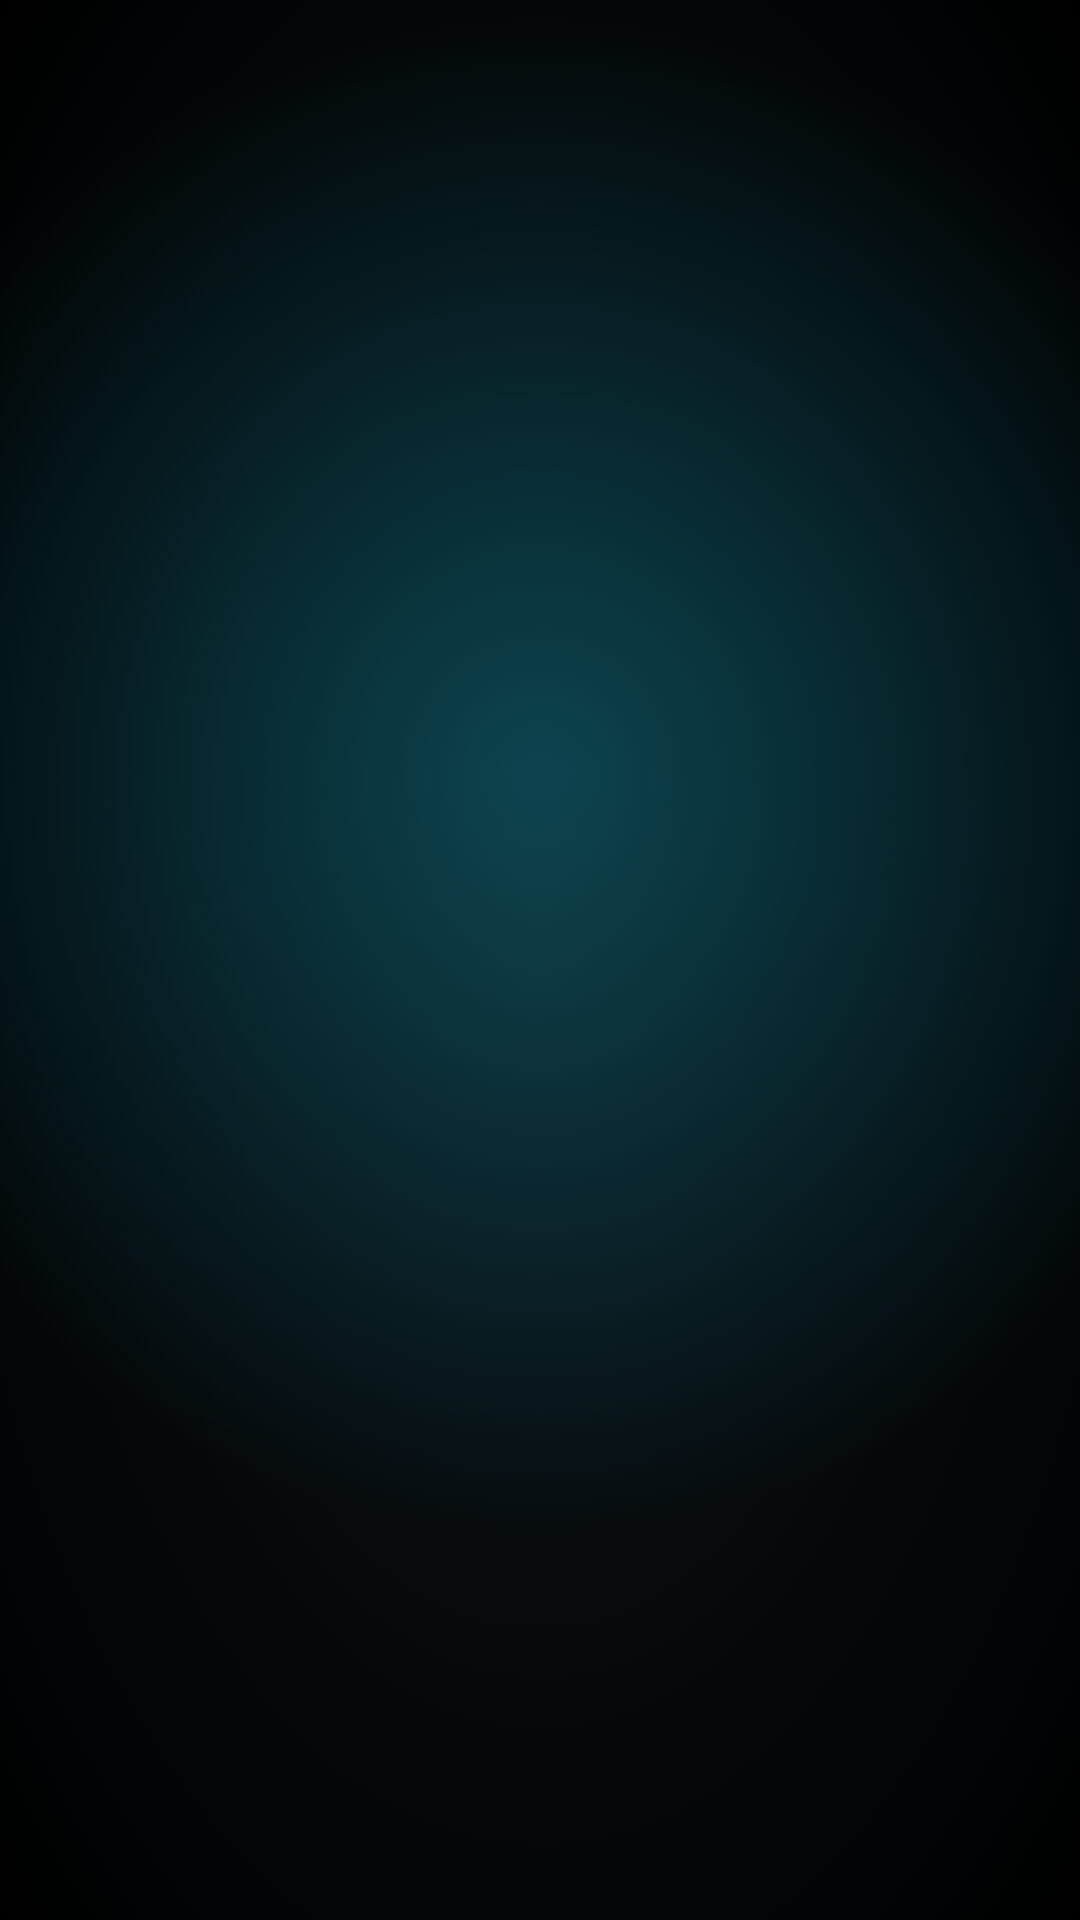
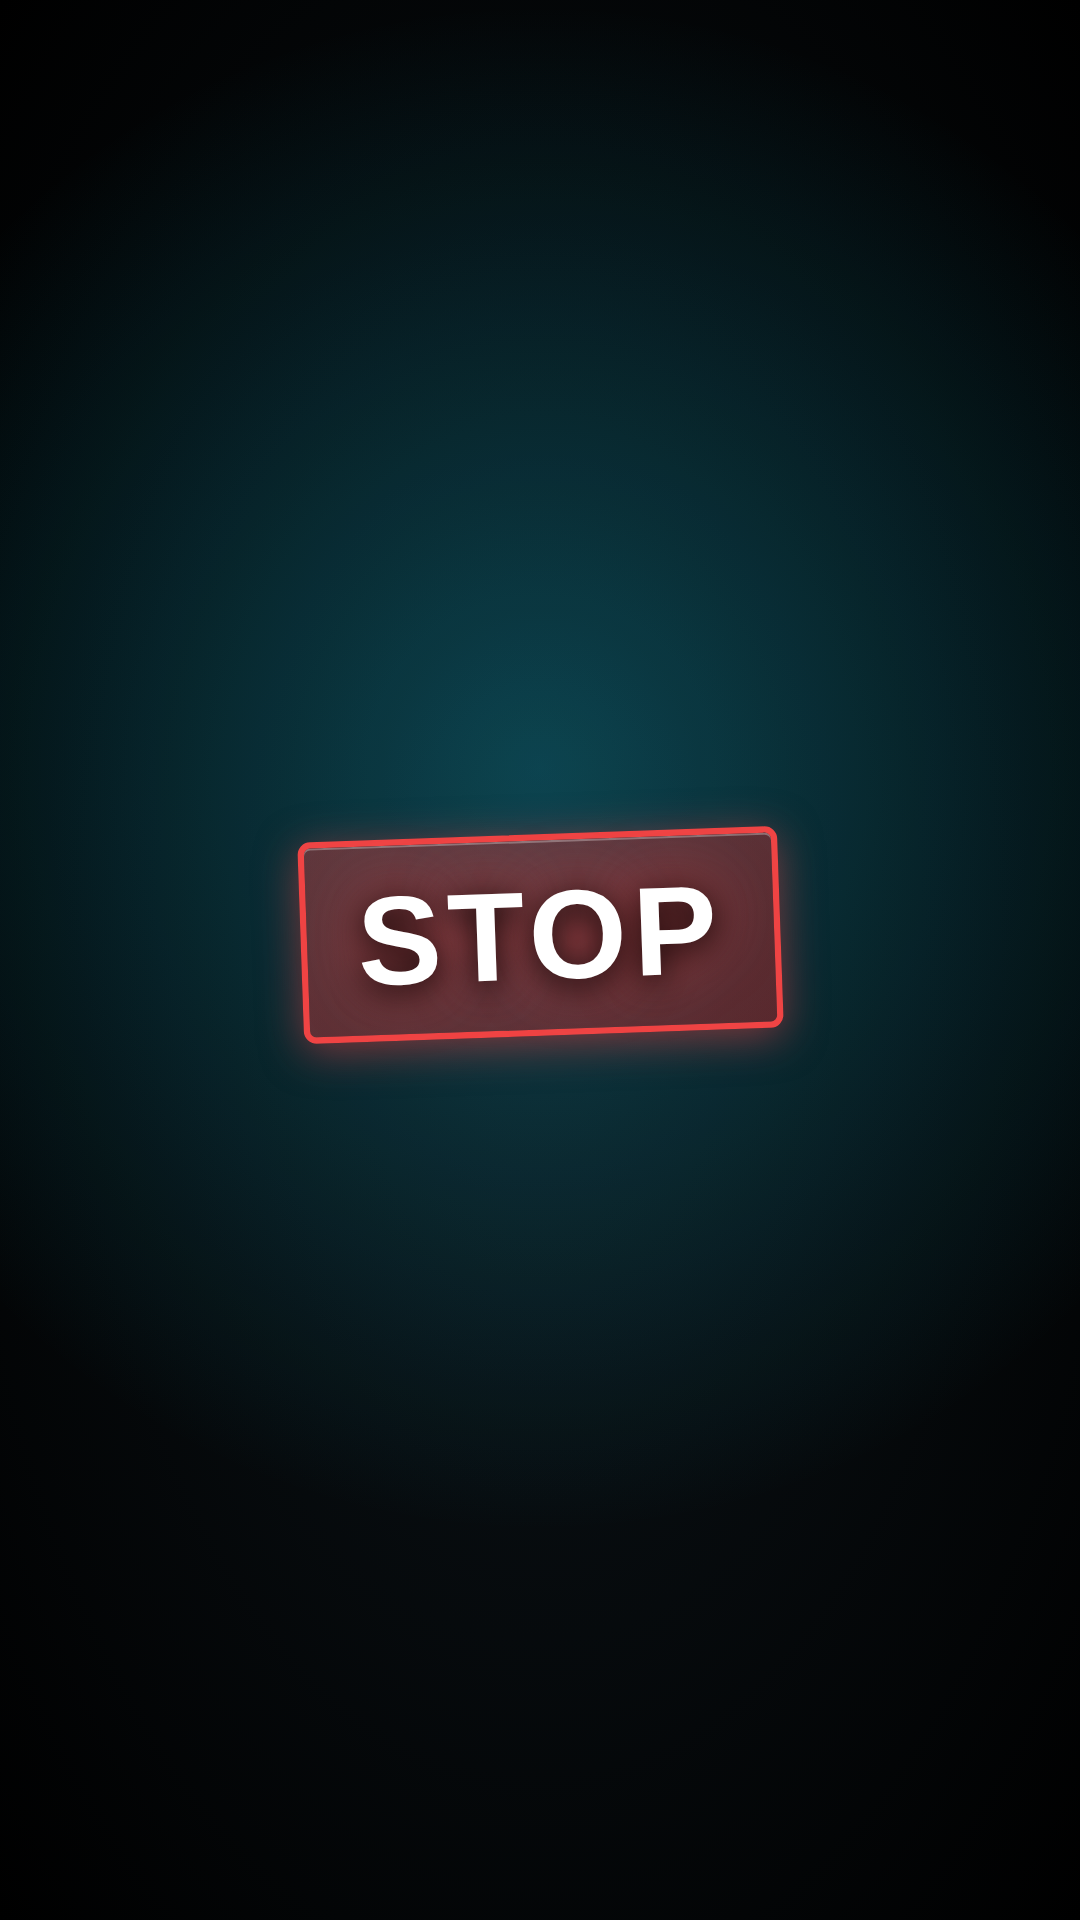
FIX: STOP stamp visible at frame 0 (hot contrarian red/white punch)
Visual QA failed: frame-0 was empty (only glow, no text).

Fixed HookVerticalNative:
1. Frame 0 MUST show huge STOP stamp (120px, immediately visible, opacity 1)
2. Hot contrarian energy: red/white stamp (#ef4444 border/glow) on cyan dark bg
3. First word logic: opacity 1 at frame 0 (not fade-in), scale 1.05→1
4. STOP stamp: 6px red border, red glow shadow, inset highlight (stamp depth)
5. Later words: cyan accent (study-hacks tokens)

Re-rendered proofs:
- stop-frame-0.png: HUGE red STOP stamp visible (MD5 changed)
- stop-frame-30.png: transition moment
- stop-frame-60.png: rereading message (MD5 changed)

Frame 0 thumbnail VERIFIED: contains the word STOP in red stamp motif.

Changed region(s): [[0.2444, 0.4062, 0.7639, 0.5625]]

diff --git a/src/templates/HookVerticalNative.tsx b/src/templates/HookVerticalNative.tsx
@@ -58,8 +58,17 @@ const HookVerticalNative: React.FC<HookVerticalNativeProps> = ({ data, branding 
     const pastWords = autoKaraoke.filter((word) => frame >= word.endFrame);
 
     // Word entrance animation (scale + opacity)
+    // CRITICAL: First word MUST be visible at frame 0 (thumbnail requirement)
     const getWordScale = (word: KaraokeWord) => {
         const relativeFrame = frame - word.startFrame;
+        // First word (STOP): immediately at full scale at frame 0
+        if (word.startFrame === 0) {
+            return interpolate(relativeFrame, [0, 4], [1.05, 1], {
+                extrapolateLeft: 'clamp',
+                extrapolateRight: 'clamp',
+            });
+        }
+        // Later words: punch entrance
         return interpolate(relativeFrame, [0, 8], [0.92, 1], {
             extrapolateLeft: 'clamp',
             extrapolateRight: 'clamp',
@@ -68,13 +77,24 @@ const HookVerticalNative: React.FC<HookVerticalNativeProps> = ({ data, branding 
 
     const getWordOpacity = (word: KaraokeWord) => {
         const relativeFrame = frame - word.startFrame;
-        // Fade in fast, stay, fade out
-        if (relativeFrame < 8) {
-            return interpolate(relativeFrame, [0, 8], [0, 1], { extrapolateLeft: 'clamp' });
+        // CRITICAL: First word (STOP) must be VISIBLE at frame 0
+        if (word.startFrame === 0 && relativeFrame >= 0) {
+            // Immediately visible, then fade out at end
+            const exitFrame = word.endFrame - word.startFrame;
+            if (relativeFrame > exitFrame - 10) {
+                return interpolate(relativeFrame, [exitFrame - 10, exitFrame], [1, 0], {
+                    extrapolateRight: 'clamp',
+                });
+            }
+            return 1; // Full opacity at frame 0
+        }
+        // Later words: fade in fast
+        if (relativeFrame < 6) {
+            return interpolate(relativeFrame, [0, 6], [0, 1], { extrapolateLeft: 'clamp' });
         }
         const exitFrame = word.endFrame - word.startFrame;
         if (relativeFrame > exitFrame - 8) {
-            return interpolate(relativeFrame, [exitFrame - 8, exitFrame], [1, 0.3], {
+            return interpolate(relativeFrame, [exitFrame - 8, exitFrame], [1, 0.2], {
                 extrapolateRight: 'clamp',
             });
         }
@@ -125,33 +145,43 @@ const HookVerticalNative: React.FC<HookVerticalNativeProps> = ({ data, branding 
                 }}
             >
                 {/* ACTIVE WORD(S): Large karaoke-style highlight */}
-                {activeWords.map((word, idx) => (
-                    <div
-                        key={`active-${word.startFrame}-${idx}`}
-                        style={{
-                            fontSize: 72,
-                            fontWeight: 900,
-                            color: '#fff',
-                            textAlign: 'center',
-                            textTransform: 'uppercase',
-                            fontFamily: "'Montserrat', sans-serif",
-                            letterSpacing: '-0.02em',
-                            lineHeight: 1.1,
-                            textShadow: `
-                                0 4px 20px rgba(0,0,0,0.9),
-                                0 0 40px ${tokens.colors.primary}80
-                            `,
-                            transform: `scale(${getWordScale(word)})`,
-                            opacity: getWordOpacity(word),
-                            padding: '12px 24px',
-                            background: `linear-gradient(135deg, ${tokens.colors.primary}20 0%, transparent 100%)`,
-                            borderRadius: 8,
-                            border: `3px solid ${tokens.colors.primary}60`,
-                        }}
-                    >
-                        {word.text}
-                    </div>
-                ))}
+                {activeWords.map((word, idx) => {
+                    // First word (STOP): HOT CONTRARIAN STAMP — red/white punch on cyan dark
+                    const isFirstWord = word.startFrame === 0;
+                    return (
+                        <div
+                            key={`active-${word.startFrame}-${idx}`}
+                            style={{
+                                fontSize: isFirstWord ? 120 : 72, // STOP: huge stamp
+                                fontWeight: 900,
+                                color: isFirstWord ? '#fff' : '#fff',
+                                textAlign: 'center',
+                                textTransform: 'uppercase',
+                                fontFamily: "'Montserrat', sans-serif",
+                                letterSpacing: isFirstWord ? '0.05em' : '-0.02em',
+                                lineHeight: 1.1,
+                                textShadow: isFirstWord 
+                                    ? `0 6px 30px rgba(0,0,0,1), 0 0 60px #ef4444cc` // Red glow for STOP
+                                    : `0 4px 20px rgba(0,0,0,0.9), 0 0 40px ${tokens.colors.primary}80`,
+                                transform: `scale(${getWordScale(word)}) rotate(${isFirstWord ? '-2deg' : '0deg'})`,
+                                opacity: getWordOpacity(word),
+                                padding: isFirstWord ? '24px 48px' : '12px 24px',
+                                background: isFirstWord
+                                    ? `linear-gradient(135deg, #ef444460 0%, #dc262660 100%)` // Red stamp bg
+                                    : `linear-gradient(135deg, ${tokens.colors.primary}20 0%, transparent 100%)`,
+                                borderRadius: 12,
+                                border: isFirstWord 
+                                    ? `6px solid #ef4444` // Red border for STOP stamp
+                                    : `3px solid ${tokens.colors.primary}60`,
+                                boxShadow: isFirstWord 
+                                    ? `0 8px 40px #ef444480, inset 0 2px 0 rgba(255,255,255,0.3)` // Stamp depth
+                                    : 'none',
+                            }}
+                        >
+                            {word.text}
+                        </div>
+                    );
+                })}
 
                 {/* UPCOMING WORD: Subtle preview */}
                 {upcomingWord && activeWords.length === 0 && (
